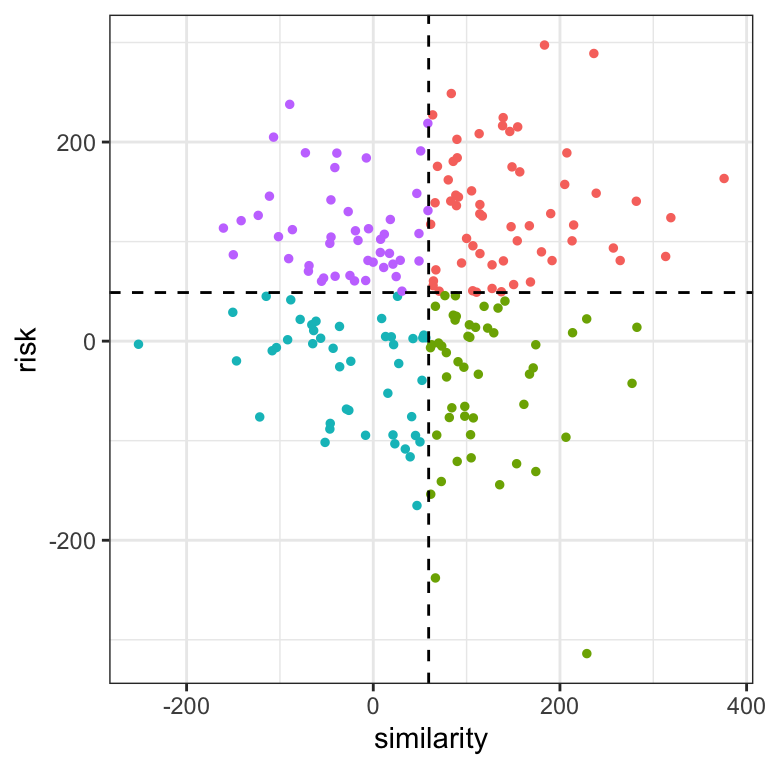
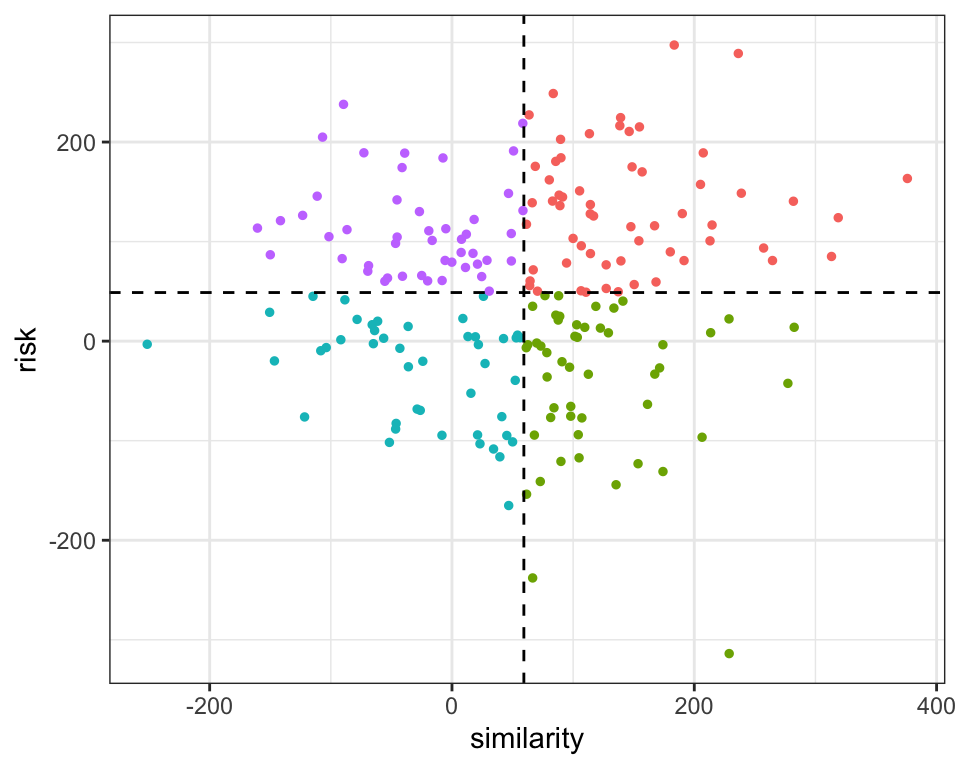
actualizacion de inicio y proyecto

diff --git a/content/portfolio/proy-chile-dssg/index.html b/content/portfolio/proy-chile-dssg/index.html
@@ -9,7 +9,6 @@ techs:
 - machine learning
 - pipeline
 - postgresSQL
-- plotnine
 thumbnail: proy-chile-dssg/chile-project-logos.png
 title: Inspecciones Proactivas en Chile
 work:
@@ -36,10 +35,11 @@ work:
 <div id="problema-técnico" class="section level3">
 <h3>Problema técnico</h3>
 <p>El objetivo es identificar la probabilidad de una <strong>violación</strong> dado el estado de inspección de una instalación, <code>P(V|I)</code>. Cabe destacar que necesitamos conocer el estado de inspección de la instalación para identificar correctamente este efecto.</p>
-<p><img src="/portfolio/proy-chile-dssg/index_files/figure-html/unnamed-chunk-1-1.png" width="384" /></p>
+<p><img src="/portfolio/proy-chile-dssg/index_files/figure-html/unnamed-chunk-1-1.png" width="480" style="display: block; margin: auto;" /></p>
 </div>
 <div id="referencias" class="section level2">
 <h2>Referencias</h2>
-<p>Código: <a href="https://github.com/dssg/direccion_trabajo_inspections" class="uri">https://github.com/dssg/direccion_trabajo_inspections</a>.</p>
+<p>Código: <a href="https://github.com/dssg/direccion_trabajo_inspections" class="uri">https://github.com/dssg/direccion_trabajo_inspections</a></p>
+<p>Actualización: <a href="https://github.com/dssg/direccion_trabajo_inspections" class="uri">https://github.com/dssg/direccion_trabajo_inspections</a></p>
 </div>
 </div>

diff --git a/public/index.html b/public/index.html
@@ -37,7 +37,7 @@
   <div class="intro">
     <div class="logo-container">
       <a href="/">
-        <img src='/images/songeo_pic.png' alt="Profile INICIO" class="rounded-logo">
+        <img src='/images/songeo_pic.png' alt="Profile BIBLIOTECA" class="rounded-logo">
       </a>
     </div>
     <h2>⚡ Sonia Mendizábal ⚡</h2>
@@ -148,14 +148,9 @@
     <main id="content" class="">
 
 <h1>INICIO</h1>
-<p>Hellouuu!</p>
-<p>Bienvenidx a esta página. Me presento, mi nombre es <strong>Sonia Georgina</strong> y soy <strong>científica de datos</strong>. En esta página podras encontrar proyectos, información y  cosas interesantes de análisis de datos.</p>
-<p>Objetivos:</p>
-<ol>
-<li>Aprender a comunicar lo que aprendo y hago;</li>
-<li>Generar material técnico y más curiosidades en español.</li>
-</ol>
-<p>En el link de abajo puedes encontrar la actividad más reciente de la página.</p>
+<p>Hellouuu! Bienvenidx a esta página.</p>
+<p>En el menú 👈 podrás encontrar <strong>proyectos, información y cosas interesantes</strong> (al menos para mí) de análisis de datos.</p>
+<p>En la parte de abajo puedes encontrar la actividad más <strong>reciente</strong> de la página 👇</p>
 
 
 <h2>Reciente</h2>

diff --git a/public/acerca/index.html b/public/acerca/index.html
@@ -38,7 +38,7 @@
   <div class="intro">
     <div class="logo-container">
       <a href="/">
-        <img src='/images/songeo_pic.png' alt="Profile INICIO" class="rounded-logo">
+        <img src='/images/songeo_pic.png' alt="Profile BIBLIOTECA" class="rounded-logo">
       </a>
     </div>
     <h2>⚡ Sonia Mendizábal ⚡</h2>
@@ -157,7 +157,13 @@
     <main id="content" class="acerca">
 
   <h1 id="title"> ACERCA</h1>
-  <p></p>
+  <p><p>Me presento, mi nombre es <strong>Sonia Georgina</strong> y soy <strong>científica de datos</strong>.</p>
+<p>Objetivos:</p>
+<ol>
+<li>Aprender a comunicar lo que aprendo y hago;</li>
+<li>Generar material técnico y más curiosidades en español.</li>
+</ol>
+</p>
   <ul id="list">
     
   </ul>

diff --git a/public/techs/index.html b/public/techs/index.html
@@ -37,7 +37,7 @@
   <div class="intro">
     <div class="logo-container">
       <a href="/">
-        <img src='/images/songeo_pic.png' alt="Profile INICIO" class="rounded-logo">
+        <img src='/images/songeo_pic.png' alt="Profile BIBLIOTECA" class="rounded-logo">
       </a>
     </div>
     <h2>⚡ Sonia Mendizábal ⚡</h2>
@@ -164,10 +164,6 @@
     
         
             <li><a href="/techs/pipeline/">Pipeline</a></li>
-        
-    
-        
-            <li><a href="/techs/plotnine/">Plotnine</a></li>
         
     
         

diff --git a/public/techs/plotnine/index.html b/public/techs/plotnine/index.html
@@ -37,7 +37,7 @@
   <div class="intro">
     <div class="logo-container">
       <a href="/">
-        <img src='/images/songeo_pic.png' alt="Profile INICIO" class="rounded-logo">
+        <img src='/images/songeo_pic.png' alt="Profile Lista de libros" class="rounded-logo">
       </a>
     </div>
     <h2>⚡ Sonia Mendizábal ⚡</h2>

diff --git a/public/404.html b/public/404.html
@@ -37,7 +37,7 @@
   <div class="intro">
     <div class="logo-container">
       <a href="/">
-        <img src='/images/songeo_pic.png' alt="Profile INICIO" class="rounded-logo">
+        <img src='/images/songeo_pic.png' alt="Profile BIBLIOTECA" class="rounded-logo">
       </a>
     </div>
     <h2>⚡ Sonia Mendizábal ⚡</h2>

diff --git a/public/bookshelf/booklist/index.html b/public/bookshelf/booklist/index.html
@@ -51,7 +51,7 @@
   <div class="intro">
     <div class="logo-container">
       <a href="/">
-        <img src='/images/songeo_pic.png' alt="Profile INICIO" class="rounded-logo">
+        <img src='/images/songeo_pic.png' alt="Profile BIBLIOTECA" class="rounded-logo">
       </a>
     </div>
     <h2>⚡ Sonia Mendizábal ⚡</h2>

diff --git a/public/bookshelf/index.html b/public/bookshelf/index.html
@@ -37,7 +37,7 @@
   <div class="intro">
     <div class="logo-container">
       <a href="/">
-        <img src='/images/songeo_pic.png' alt="Profile INICIO" class="rounded-logo">
+        <img src='/images/songeo_pic.png' alt="Profile BIBLIOTECA" class="rounded-logo">
       </a>
     </div>
     <h2>⚡ Sonia Mendizábal ⚡</h2>

diff --git a/public/contacto/index.html b/public/contacto/index.html
@@ -37,7 +37,7 @@
   <div class="intro">
     <div class="logo-container">
       <a href="/">
-        <img src='/images/songeo_pic.png' alt="Profile INICIO" class="rounded-logo">
+        <img src='/images/songeo_pic.png' alt="Profile BIBLIOTECA" class="rounded-logo">
       </a>
     </div>
     <h2>⚡ Sonia Mendizábal ⚡</h2>

diff --git a/public/cv/index.html b/public/cv/index.html
@@ -37,7 +37,7 @@
   <div class="intro">
     <div class="logo-container">
       <a href="/">
-        <img src='/images/songeo_pic.png' alt="Profile INICIO" class="rounded-logo">
+        <img src='/images/songeo_pic.png' alt="Profile BIBLIOTECA" class="rounded-logo">
       </a>
     </div>
     <h2>⚡ Sonia Mendizábal ⚡</h2>

diff --git a/public/designs/index.html b/public/designs/index.html
@@ -37,7 +37,7 @@
   <div class="intro">
     <div class="logo-container">
       <a href="/">
-        <img src='/images/songeo_pic.png' alt="Profile INICIO" class="rounded-logo">
+        <img src='/images/songeo_pic.png' alt="Profile BIBLIOTECA" class="rounded-logo">
       </a>
     </div>
     <h2>⚡ Sonia Mendizábal ⚡</h2>
